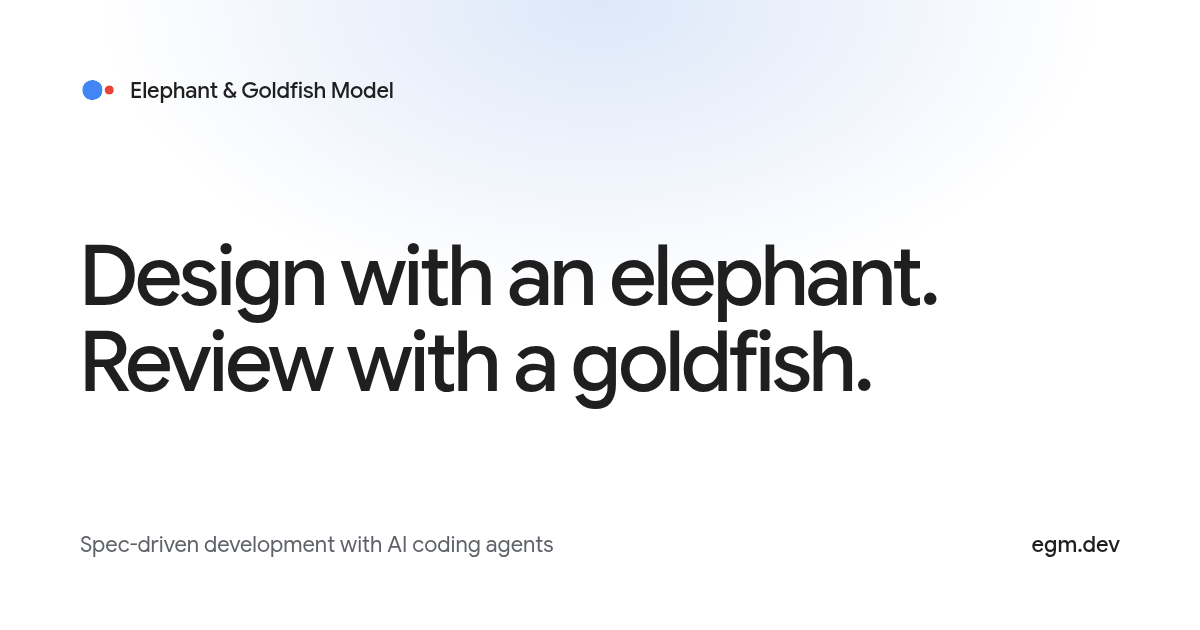
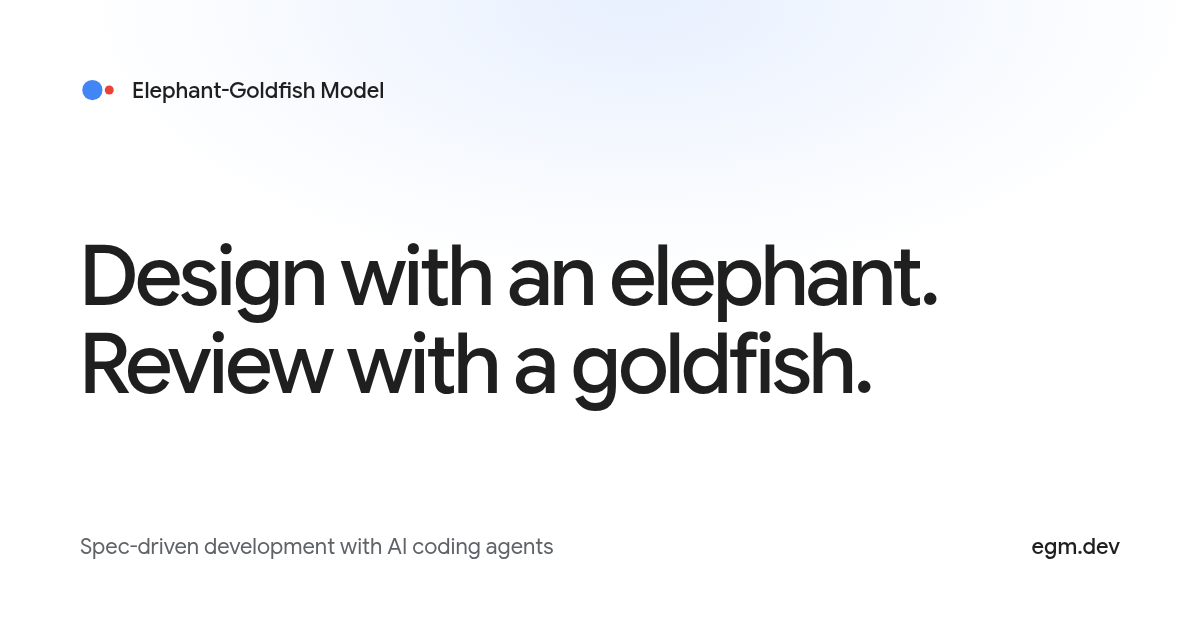
site: add npm run capture to regenerate og.png and screenshots
scripts/og.html is the source for public/og.png, rendered with the site
tokens and font. scripts/capture.mjs builds, serves dist/, and writes
og.png plus all four screenshots with puppeteer-core and a local
Chrome. og.png now shows Elephant-Goldfish Model.

diff --git a/site/scripts/og.html b/site/scripts/og.html
@@ -1,0 +1,86 @@
+<!doctype html>
+<!--
+Copyright 2026 Google LLC.
+SPDX-License-Identifier: Apache-2.0
+-->
+<!-- Template for public/og.png (1200x630). Rendered by scripts/capture.mjs; edit here, not the PNG. -->
+<html lang="en">
+  <head>
+    <meta charset="utf-8" />
+    <link rel="stylesheet" href="../src/styles/tokens.css" />
+    <style>
+      @font-face {
+        font-family: 'Google Sans Flex';
+        src: url('../src/assets/fonts/google-sans-flex.woff2') format('woff2');
+        font-weight: 100 1000;
+      }
+      :root {
+        color-scheme: light;
+        --font-display: 'Google Sans Flex', system-ui, sans-serif;
+      }
+      html,
+      body {
+        margin: 0;
+      }
+      .og {
+        box-sizing: border-box;
+        inline-size: 1200px;
+        block-size: 630px;
+        padding: 72px 80px 70px;
+        display: flex;
+        flex-direction: column;
+        font-family: var(--font-display);
+        color: var(--md-sys-color-on-surface);
+        background:
+          radial-gradient(560px 280px at 640px 0, var(--md-sys-color-primary-container), transparent),
+          var(--md-sys-color-surface);
+      }
+      .brand {
+        display: flex;
+        align-items: center;
+        gap: 16px;
+        font-size: 22px;
+        font-weight: 500;
+      }
+      .brand svg {
+        inline-size: 36px;
+        block-size: 36px;
+      }
+      h1 {
+        margin: auto 0;
+        font-size: 84px;
+        font-weight: 500;
+        line-height: 1.04;
+        letter-spacing: -0.025em;
+      }
+      .foot {
+        display: flex;
+        justify-content: space-between;
+        align-items: baseline;
+        font-size: 22px;
+      }
+      .tagline {
+        color: var(--md-sys-color-on-surface-variant);
+      }
+      .domain {
+        font-weight: 500;
+      }
+    </style>
+  </head>
+  <body>
+    <div class="og">
+      <div class="brand">
+        <svg viewBox="0 0 32 32" aria-hidden="true">
+          <circle cx="11" cy="16" r="9" fill="var(--egm-color-elephant)"></circle>
+          <circle cx="26" cy="16" r="4" fill="var(--egm-color-goldfish)"></circle>
+        </svg>
+        Elephant-Goldfish Model
+      </div>
+      <h1>Design with an elephant.<br />Review with a goldfish.</h1>
+      <div class="foot">
+        <span class="tagline">Spec-driven development with AI coding agents</span>
+        <span class="domain">egm.dev</span>
+      </div>
+    </div>
+  </body>
+</html>

diff --git a/site/README.md b/site/README.md
@@ -41,7 +41,12 @@ npm install
 npm run dev      # http://localhost:4321
 npm run check    # astro check
 npm run build    # writes dist/
+npm run capture  # rebuilds, then regenerates public/og.png and screenshots/*.png
 ```
+
+`npm run capture` needs a local Chrome (set `CHROME_PATH` if it is not found).
+The social image comes from `scripts/og.html`; edit that file, not the PNG.
+Run `npm run capture` after any visible change so the committed images stay in sync.
 
 ## Deploy
 
